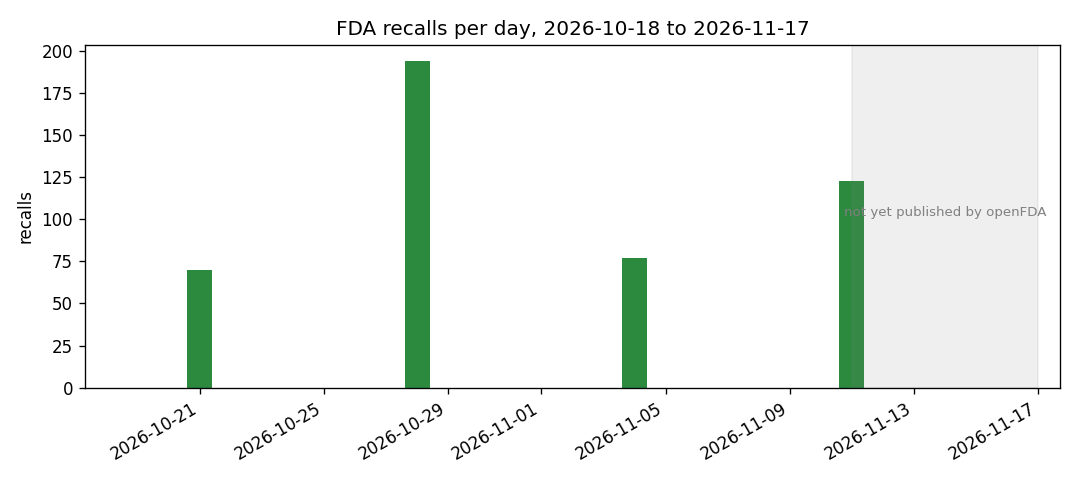
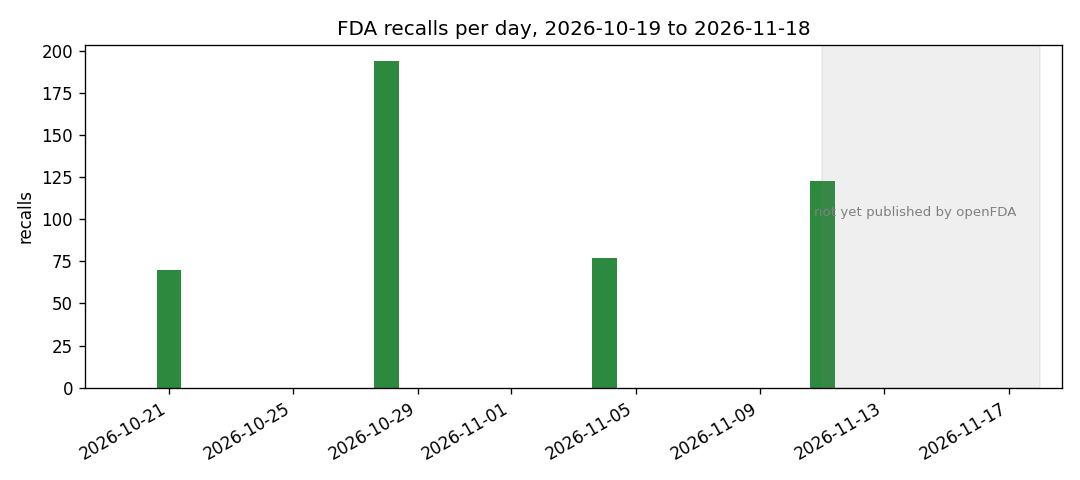
Add recall status breakdown to the report
Ongoing/Completed/Terminated counts and shares. 2 new tests (38 total).

diff --git a/src/recallradar/report.py b/src/recallradar/report.py
@@ -21,7 +21,8 @@ def render_markdown(summary: dict, spotlight: list[dict],
                     lag: dict | None = None,
                     lag_by_class: dict | None = None,
                     repeaters: list[dict] | None = None,
-                    severity_by_product: dict | None = None) -> str:
+                    severity_by_product: dict | None = None,
+                    statuses: list[tuple] | None = None) -> str:
     generated_at = generated_at or dt.datetime.now(dt.timezone.utc)
     if endpoint_updated:
         parts = ", ".join(f"{ep} {d}" for ep, d in sorted(endpoint_updated.items()))
@@ -73,6 +74,10 @@ def render_markdown(summary: dict, spotlight: list[dict],
             total = sum(c.values())
             share = f"{c['Class I'] / total:.0%}" if total else "-"
             lines.append(f"| {ptype} | {c['Class I']} | {c['Class II']} | {c['Class III']} | {share} |")
+    if statuses:
+        lines += ["", "## Recall status", "", "| Status | Recalls | Share |", "| --- | ---: | ---: |"]
+        for st, n, share in statuses:
+            lines.append(f"| {st} | {n} | {share:.0%} |")
     if repeaters:
         lines += ["", "## Repeat recallers", "",
                   "Firms with 3+ recalls in the window (a supplier-risk signal).", "",

diff --git a/tests/test_analyze.py b/tests/test_analyze.py
@@ -173,3 +173,22 @@ def test_report_renders_severity_by_product():
         [], dt.date(2026, 10, 1), dt.date(2026, 10, 30),
         severity_by_product={"Drugs": {"Class I": 1, "Class II": 3, "Class III": 0}})
     assert "| Drugs | 1 | 3 | 0 | 25% |" in md
+
+
+def test_status_breakdown_counts_shares_and_unknown():
+    from recallradar.analyze import status_breakdown
+    recs = [{"status": "Ongoing"}] * 3 + [{"status": "Terminated"}] + [{}]
+    out = status_breakdown(recs)
+    assert out[0] == ("Ongoing", 3, 0.6)
+    assert {s for s, _, _ in out} == {"Ongoing", "Terminated", "Unknown"}
+    assert status_breakdown([]) == []
+
+
+def test_report_renders_status_table():
+    import datetime as dt
+    from recallradar import report
+    md = report.render_markdown(
+        {"total": 1, "days_with_recalls": 1, "by_classification": {}, "by_product_type": {}, "top_firms": []},
+        [], dt.date(2026, 10, 1), dt.date(2026, 10, 30),
+        statuses=[("Ongoing", 3, 0.75)])
+    assert "| Ongoing | 3 | 75% |" in md

diff --git a/scripts/daily_update.py b/scripts/daily_update.py
@@ -90,7 +90,8 @@ def main() -> None:
                                endpoint_updated=endpoint_updated, lag=lag,
                                lag_by_class=analyze.lag_by_classification(records),
                                repeaters=analyze.repeat_recallers(records),
-                               severity_by_product=analyze.severity_by_product(records)),
+                               severity_by_product=analyze.severity_by_product(records),
+                               statuses=analyze.status_breakdown(records)),
         encoding="utf-8",
     )
     if report.plot_daily_counts(records, REPORTS / "recalls_last_30d.png",

diff --git a/src/recallradar/analyze.py b/src/recallradar/analyze.py
@@ -176,3 +176,11 @@ def severity_by_product(records: list[dict]) -> dict[str, dict[str, int]]:
         if cls in row:
             row[cls] += 1
     return out
+
+
+def status_breakdown(records: list[dict]) -> list[tuple[str, int, float]]:
+    """(status, count, share) for recall status (Ongoing, Completed,
+    Terminated...), largest first. Shows how much of the window is still open."""
+    counts = Counter(rec.get("status") or "Unknown" for rec in records)
+    total = sum(counts.values())
+    return [(st, n, n / total) for st, n in sorted(counts.items(), key=lambda kv: (-kv[1], kv[0]))]

diff --git a/reports/daily_report.md b/reports/daily_report.md
@@ -1,6 +1,6 @@
 # FDA Recall Radar - daily report
 
-Window: 2026-10-18 to 2026-11-17 (by report date). openFDA last_updated by endpoint: device 2026-11-11, drug 2026-11-11, food 2026-11-11. Generated 2026-11-17 20:05 UTC.
+Window: 2026-10-19 to 2026-11-18 (by report date). openFDA last_updated by endpoint: device 2026-11-11, drug 2026-11-11, food 2026-11-11. Generated 2026-11-18 12:04 UTC.
 
 **464 recalls** across 4 active days.
 
@@ -50,6 +50,13 @@ Days from recall initiation to the enforcement report, over the 464 recalls in t
 | Devices | 31 | 203 | 1 | 13% |
 | Drugs | 3 | 116 | 4 | 2% |
 | Food | 28 | 44 | 32 | 27% |
+
+## Recall status
+
+| Status | Recalls | Share |
+| --- | ---: | ---: |
+| Ongoing | 463 | 100% |
+| Completed | 1 | 0% |
 
 ## Repeat recallers
 
